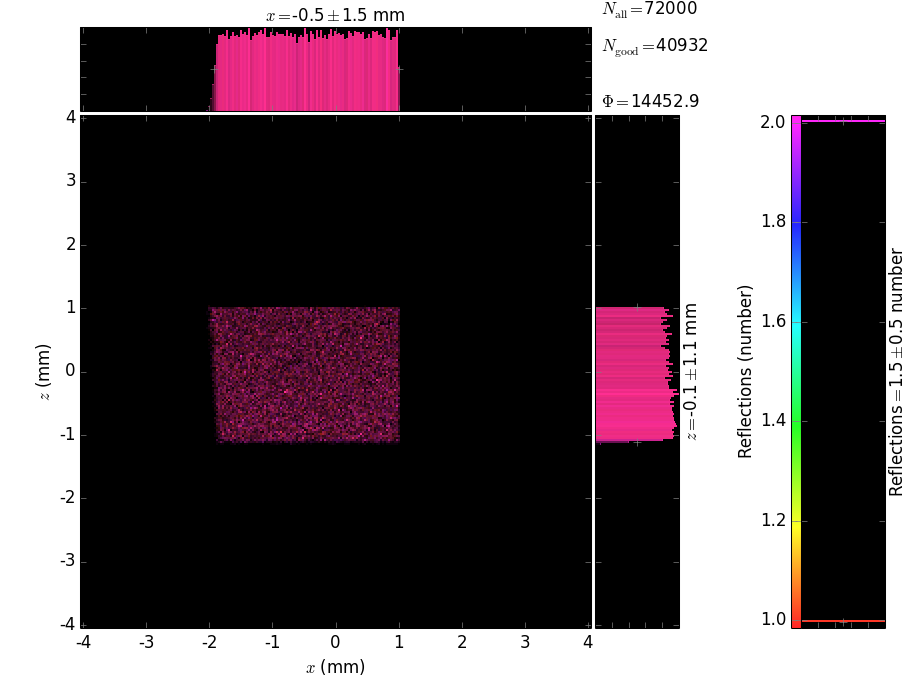
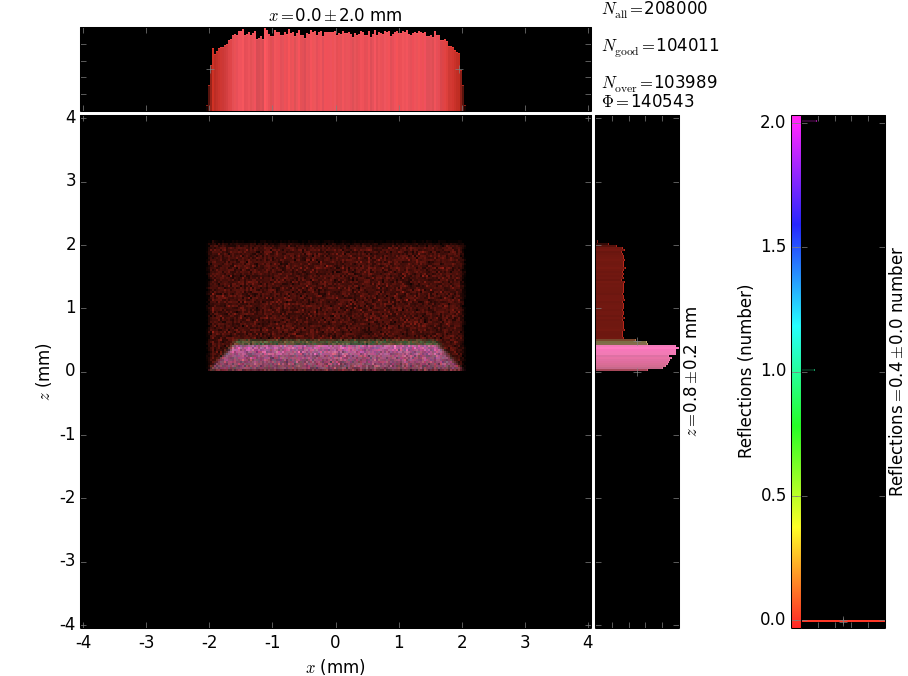
Wedge shaped object seems to be represented correctly
- 1 reflection : reflected?
- 2 reflections : transmited? (in + out), reflection would be change of
  medium

diff --git a/object_testing.py b/object_testing.py
@@ -62,8 +62,8 @@ def build_beamline(nrays=1000):
     beamLine.things = []
 
     # Set position and thickness
-    limPhysY = [36.95, 39.95]
-    limPhysX = [-3.0, 1.0]
+    limPhysY = [29.95, 39.95]
+    limPhysX = [-3.0, 3.0]
 
     # Tested material
     mGold = rm.Material('Au', rho=19.3)
@@ -112,7 +112,7 @@ def main():
     plots = []
 
     # Plot creation
-    plot = xrtp.XYCPlot('screen_{0:02d}'.format(D_),(3,-1,),
+    plot = xrtp.XYCPlot('screen_{0:02d}'.format(D_),(-1,3,),
         xaxis=xrtp.XYCAxis(r'$x$', 'mm',\
                            bins=256, ppb=2,\
                            limits=xLimits),
@@ -129,7 +129,7 @@ def main():
     plots.append(plot)
 
     # Plot creation
-    plot = xrtp.XYCPlot('screen_{0:02d}'.format(D_),(1,),
+    plot = xrtp.XYCPlot('screen_{0:02d}'.format(D_),(1,3,),
         xaxis=xrtp.XYCAxis(r'$x$', 'mm',\
                            bins=256, ppb=2,\
                            limits=xLimits),

diff --git a/customobjects.py b/customobjects.py
@@ -20,7 +20,7 @@ class CustomShape(roe.OE):
         return [a/norm, b/norm, c/norm]
 
     def local_z(self, x, y):
-        return -2. + 1.*(y - self.limPhysY[0])
+        return -2. + 0.2*(y - self.limPhysY[0])
 
 if __name__ == '__main__':
     verts = [
